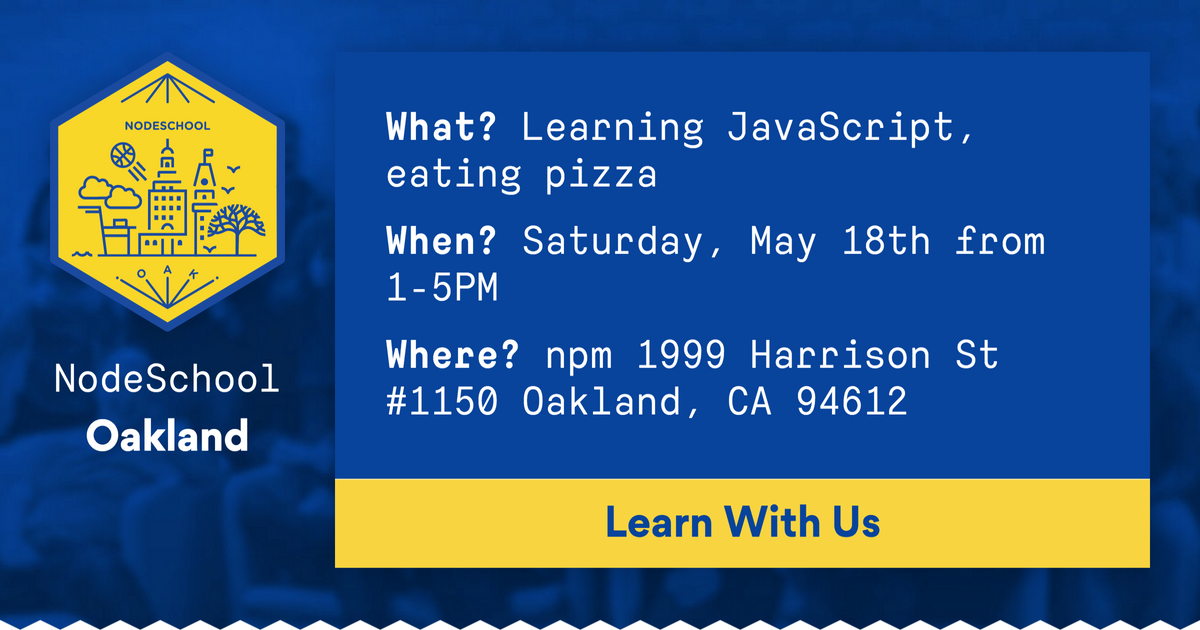
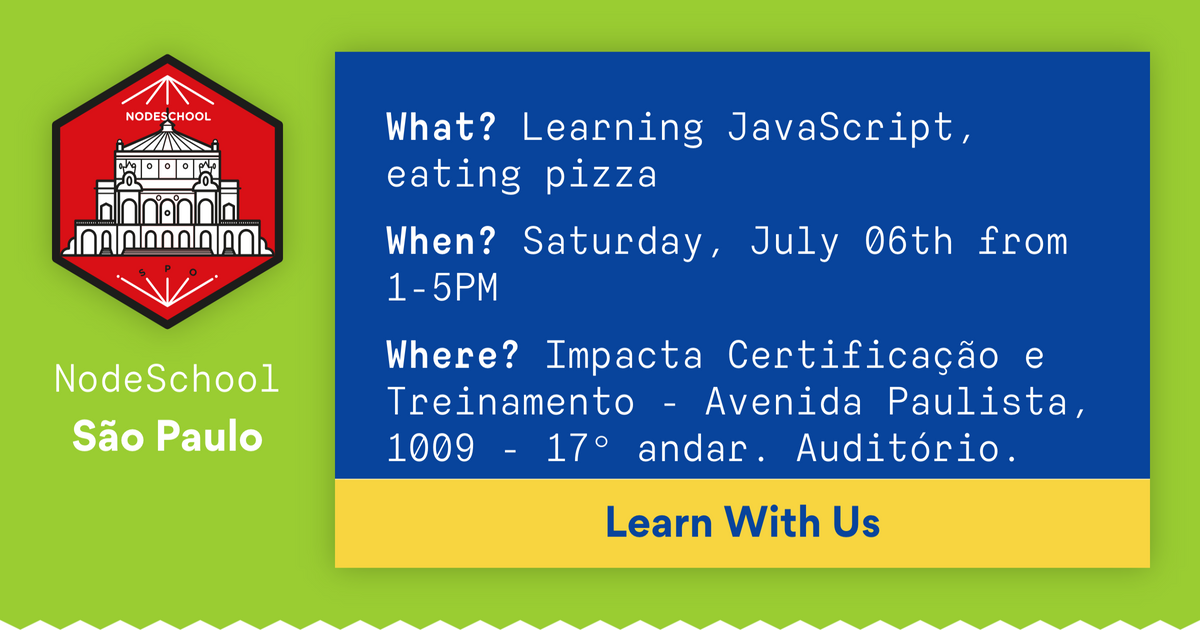
add july event

diff --git a/docs/index.html b/docs/index.html
@@ -9,7 +9,7 @@
   <meta property="og:description"
     content="NodeSchool São Paulo is a monthly meetup dedicated to helping people learn JavaScript." />
   <meta property="og:url" content="https://nodeschool.io/saopaulo/" />
-  <meta property="og:image" content="https://nodeschool.io/saopaulo/images/social.png?t=" />
+  <meta property="og:image" content="https://nodeschool.io/saopaulo/images/social.png?t=1558983054730" />
   <!--Twitter-->
   <meta name="twitter:card" content="summary_large_image">
   <meta name="twitter:site" content="@nodeschoolsp">
@@ -17,7 +17,7 @@
   <meta name="twitter:title" content="NodeSchool São Paulo">
   <meta name="twitter:description"
     content="NodeSchool São Paulo is a monthly meetup dedicated to helping people learn JavaScript.">
-  <meta name="twitter:image" content="https://nodeschool.io/saopaulo/images/social.png?t=">
+  <meta name="twitter:image" content="https://nodeschool.io/saopaulo/images/social.png?t=1558983054730">
 
   <title>NodeSchool São Paulo</title>
   <link rel="stylesheet" href="./styles/index.css" />
@@ -67,6 +67,30 @@
           </p>
         </div>
 
+        <div class="next-event">
+          <div class="next-event__description">
+            <h2 class="next-event__heading">Our Next Event is on July 06th</h2>
+            <ul class="next-event__info">
+              <li class="next-event__info__item">
+                <strong class="strong--alt">When?</strong> Saturday, July 06th from 1-5PM
+              </li>
+              <li class="next-event__info__item">
+                <strong class="strong--alt">Where?</strong> Impacta Certificação e Treinamento - Avenida Paulista, 1009 - 17º andar. Auditório. [<a
+                  href="http://maps.google.com/?q=Impacta Certificação e Treinamento - Avenida Paulista, 1009 - 17º andar. Auditório.">map</a>]
+              </li>
+              <li class="next-event__info__item">
+                <strong class="strong--alt">What?</strong> Learning, mentoring, javascript bffs, and pizza 🍕
+              </li>
+            </ul>
+          </div>
+          <nav class="next-event__actions">
+            <a class="next-event__action__learner next-event__action button" href="https:&#x2F;&#x2F;www.meetup.com&#x2F;pt-BR&#x2F;nodeschoolsp&#x2F;events&#x2F;261811632">
+              Sign up as a Learner
+            </a><a class="next-event__action__mentor next-event__action button" href="https:&#x2F;&#x2F;github.com&#x2F;nodeschool&#x2F;saopaulo&#x2F;issues&#x2F;10">
+              Sign up as a Mentor
+            </a>
+          </nav>
+        </div>
       </div>
     </header>
 
@@ -85,7 +109,8 @@
             <h4 class="faq__subheading">Who organizes this event?</h4>
           </dt>
           <dd class="faq__answer">
-            Erick Wendel (<a href="https://twitter.com/erickwendel_">@erickwendel_</a>) runs the São Paulo chapter.
+
+            Erick Wendel (<a href="https://twitter.com/erickwendel_">@erickwendel_</a>) and Lucas Santos (<a href="https://twitter.com/_staticvoid">@_staticvoid</a>) run the São Paulo chapter.
           </dd>
 
           <dt class="faq__question">
@@ -143,7 +168,7 @@
           please contact an organizer immediately.</p>
         <h3><strong>NodeSchool São Paulo</strong></h3>
         <ul>
-          <li>Organizers: Erick Wendel (<a href="https://twitter.com/erickwendel_">@erickwendel_</a>)</li>
+          <li>Organizers: Erick Wendel (<a href="https://twitter.com/erickwendel_">@erickwendel_</a>) & Lucas Santos (<a href="https://twitter.com/_staticvoid">@_staticvoid</a>)</li>
           <li>Meetup URL: <a href="https://meetup.com/nodeschoolsp">https://meetup.com/nodeschoolsp</a></li>
         </ul>
         <p><strong>If you have questions or feedback about this Code of Conduct please contact

diff --git a/docs/social.html b/docs/social.html
@@ -19,6 +19,16 @@
           <div class="header__logo-text__oakland">São Paulo</div>
         </div>
       </div>
+      <div class="social__message next-event">
+        <div class="next-event__description">
+          <p><strong>What?</strong> Learning JavaScript, eating pizza</p>
+          <p><strong>When?</strong> Saturday, July 06th from 1-5PM</p>
+          <p><strong>Where?</strong> Impacta Certificação e Treinamento - Avenida Paulista, 1009 - 17º andar. Auditório.</p>
+        </div>
+        <div class="next-event__actions">
+          <button class="next-event__action__learn next-event__action social__button button">Learn With Us</button>
+        </div>
+      </div>
     </div>
   </div>
 </body>
